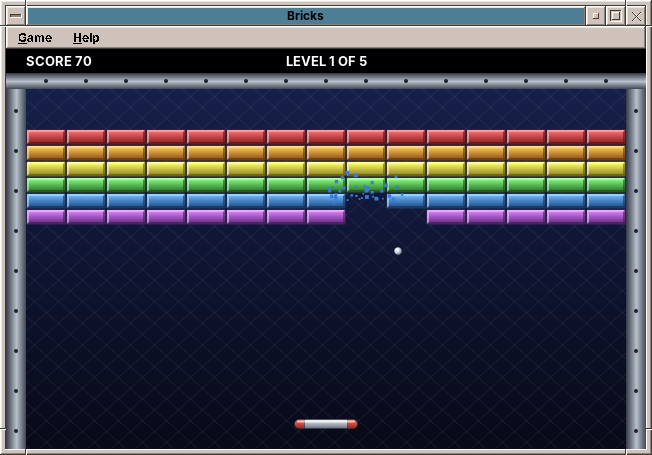
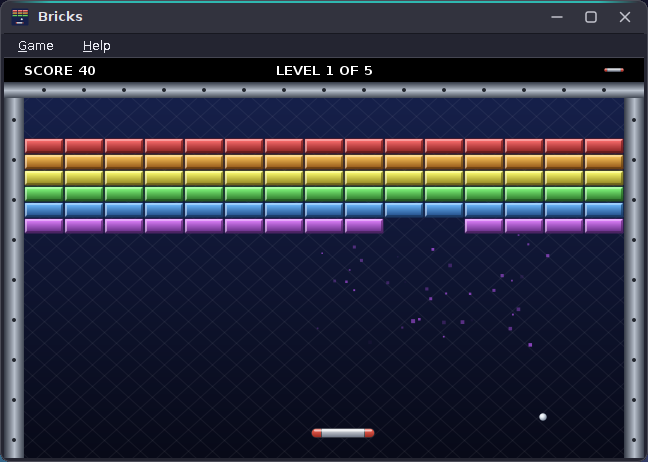
docs(readme): show the Horizon look in the screenshots
The screenshots in docs/screenshots (used by the README and the AppStream
metainfo) showed the classic CDE look. They are replaced by shots in the
Horizon look, Dark scheme; a README without a picture gets one.

Claude-Session: https://claude.ai/code/session_017Pd6NcKy4y87wY8jkALjpZ

diff --git a/README.md b/README.md
@@ -5,6 +5,8 @@
 ![License](https://img.shields.io/badge/license-EUPL--1.2-blue)
 ![Java](https://img.shields.io/badge/Java-25-orange)
 
+![Bricks](docs/screenshots/amade-bricks-game.png)
+
 ## Playing
 
 - **Enter**, **Space** or a **click** (or F2) starts a game. Move the paddle with the **arrow keys** (or A and D) or the **mouse**, launch the ball with **Space** or a **click**.
